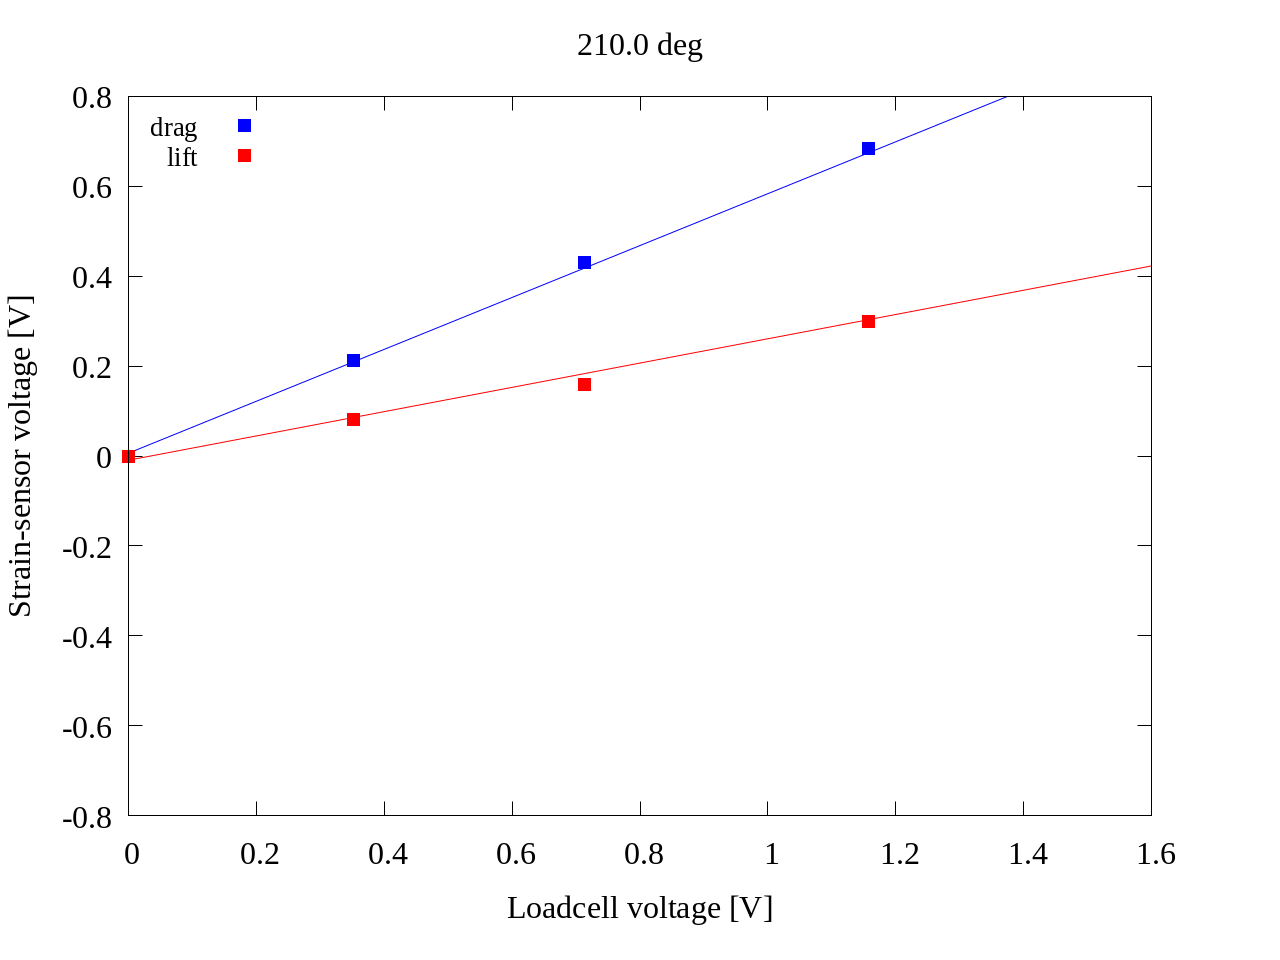
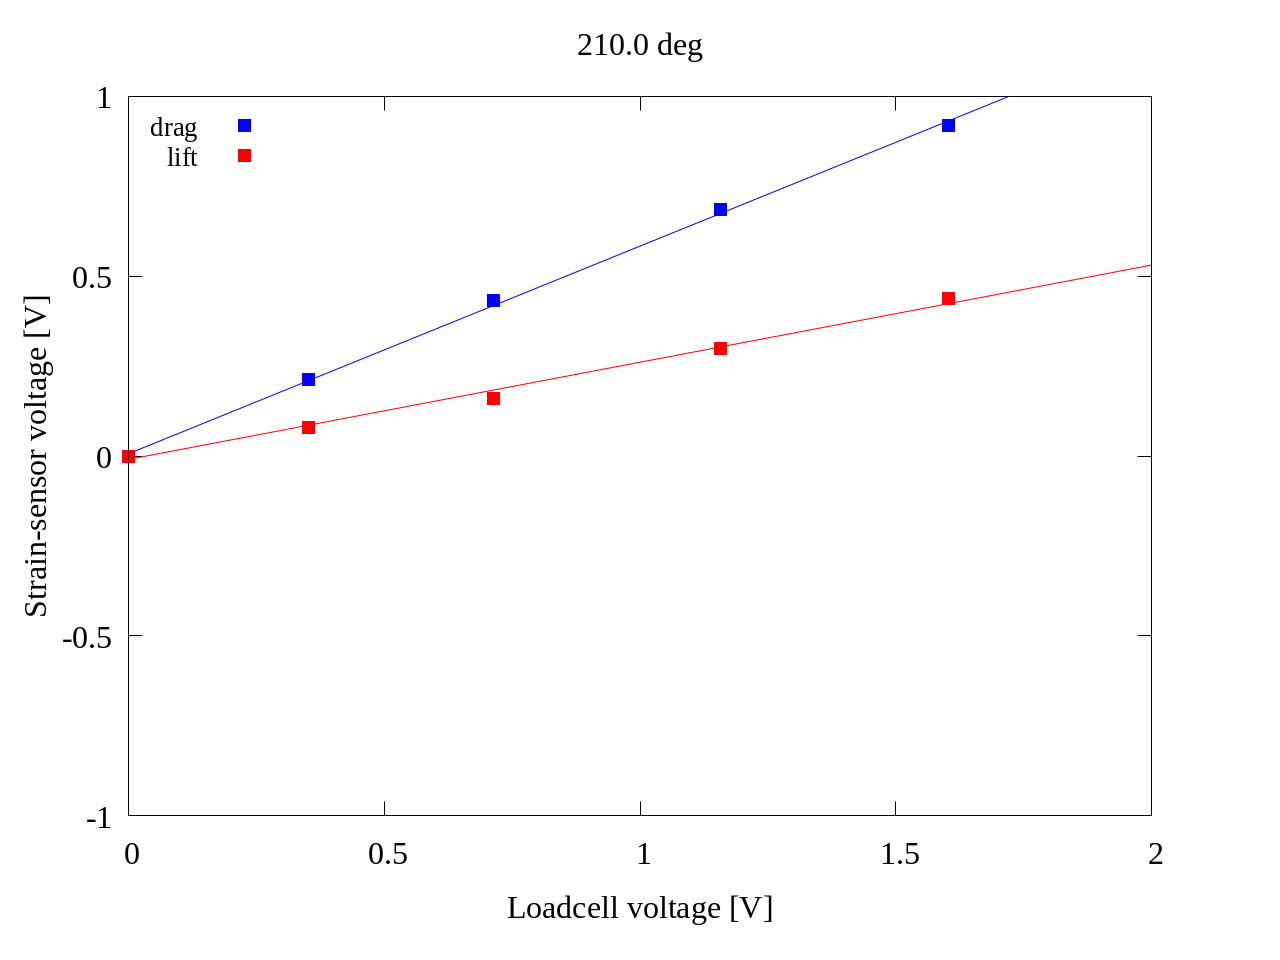
programs

diff --git a/02_workspace/programs/27-1_wave_fft_drag.c b/02_workspace/programs/27-1_wave_fft_drag.c
@@ -206,7 +206,7 @@ int calculate_drag_theory(char date[], int range)
     fprintf(gp, "set xrange [%.3f:%d]\n", x_min, x_max);
     fprintf(gp, "set xlabel '%s'offset 0.0,0\n", xxlabel);
     fprintf(gp, "set yrange [%.3f:%.3f]\n", y_min, y_max);
-    fprintf(gp, "set ylabel '%s'offset 0,0.0\n", yylabel);
+    fprintf(gp, "set ylabel '%s'offset 1,0.0\n", yylabel);
     fprintf(gp, "set title '%s (drag)'\n", label);
 
     // fprintf(gp, "set samples 10000\n");
@@ -230,7 +230,7 @@ int calculate_drag_theory(char date[], int range)
     fprintf(gp, "set xrange [%.3f:%d]\n", x_min, x_max);
     fprintf(gp, "set xlabel '%s'offset 0.0,0\n", xxlabel);
     fprintf(gp, "set yrange [%.3f:%.3f]\n", y_min, y_max);
-    fprintf(gp, "set ylabel '%s'offset 0,0.0\n", yylabel);
+    fprintf(gp, "set ylabel '%s'offset 1,0.0\n", yylabel);
     fprintf(gp, "set title '%s (Drag)'\n", label);
 
     // fprintf(gp, "set samples 10000\n");

diff --git a/02_workspace/programs/27-2_wave_fft_lift.c b/02_workspace/programs/27-2_wave_fft_lift.c
@@ -197,7 +197,7 @@ int calculate_lift_theory(char date[], int range)
     fprintf(gp, "set xrange [%.3f:%d]\n", x_min, x_max);
     fprintf(gp, "set xlabel '%s'offset 0.0,0\n", xxlabel);
     fprintf(gp, "set yrange [%.3f:%.3f]\n", y_min, y_max);
-    fprintf(gp, "set ylabel '%s'offset 0,0.0\n", yylabel);
+    fprintf(gp, "set ylabel '%s'offset 1,0.0\n", yylabel);
     fprintf(gp, "set title '%s (lift)'\n", label);
 
     // fprintf(gp, "set samples 10000\n");
@@ -221,7 +221,7 @@ int calculate_lift_theory(char date[], int range)
     fprintf(gp, "set xrange [%.3f:%d]\n", x_min, x_max);
     fprintf(gp, "set xlabel '%s'offset 0.0,0\n", xxlabel);
     fprintf(gp, "set yrange [%.3f:%.3f]\n", y_min, y_max);
-    fprintf(gp, "set ylabel '%s'offset 0,0.0\n", yylabel);
+    fprintf(gp, "set ylabel '%s'offset 1,0.0\n", yylabel);
     fprintf(gp, "set title '%s (Lift)'\n", label);
 
     // fprintf(gp, "set samples 10000\n");

diff --git a/02_workspace/programs/27-3_wave_dft_drag.c b/02_workspace/programs/27-3_wave_dft_drag.c
@@ -206,7 +206,7 @@ int calculate_drag_theory(char date[], int range)
     fprintf(gp, "set xrange [%.3f:%d]\n", x_min, x_max);
     fprintf(gp, "set xlabel '%s'offset 0.0,0\n", xxlabel);
     fprintf(gp, "set yrange [%.3f:%.3f]\n", y_min, y_max);
-    fprintf(gp, "set ylabel '%s'offset 0,0.0\n", yylabel);
+    fprintf(gp, "set ylabel '%s'offset 1,0.0\n", yylabel);
     fprintf(gp, "set title '%s (drag)'\n", label);
 
     // fprintf(gp, "set samples 10000\n");
@@ -230,7 +230,7 @@ int calculate_drag_theory(char date[], int range)
     fprintf(gp, "set xrange [%.3f:%d]\n", x_min, x_max);
     fprintf(gp, "set xlabel '%s'offset 0.0,0\n", xxlabel);
     fprintf(gp, "set yrange [%.3f:%.3f]\n", y_min, y_max);
-    fprintf(gp, "set ylabel '%s'offset 0,0.0\n", yylabel);
+    fprintf(gp, "set ylabel '%s'offset 1,0.0\n", yylabel);
     fprintf(gp, "set title '%s (Drag)'\n", label);
 
     // fprintf(gp, "set samples 10000\n");

diff --git a/02_workspace/programs/27-4_wave_dft_lift.c b/02_workspace/programs/27-4_wave_dft_lift.c
@@ -197,7 +197,7 @@ int calculate_lift_theory(char date[], int range)
     fprintf(gp, "set xrange [%.3f:%d]\n", x_min, x_max);
     fprintf(gp, "set xlabel '%s'offset 0.0,0\n", xxlabel);
     fprintf(gp, "set yrange [%.3f:%.3f]\n", y_min, y_max);
-    fprintf(gp, "set ylabel '%s'offset 0,0.0\n", yylabel);
+    fprintf(gp, "set ylabel '%s'offset 1,0.0\n", yylabel);
     fprintf(gp, "set title '%s (lift)'\n", label);
 
     // fprintf(gp, "set samples 10000\n");
@@ -221,7 +221,7 @@ int calculate_lift_theory(char date[], int range)
     fprintf(gp, "set xrange [%.3f:%d]\n", x_min, x_max);
     fprintf(gp, "set xlabel '%s'offset 0.0,0\n", xxlabel);
     fprintf(gp, "set yrange [%.3f:%.3f]\n", y_min, y_max);
-    fprintf(gp, "set ylabel '%s'offset 0,0.0\n", yylabel);
+    fprintf(gp, "set ylabel '%s'offset 1,0.0\n", yylabel);
     fprintf(gp, "set title '%s (Lift)'\n", label);
 
     // fprintf(gp, "set samples 10000\n");

diff --git a/02_workspace/programs/04_linear.c b/02_workspace/programs/04_linear.c
@@ -199,11 +199,11 @@ int linear(char date[], char angle[])
 
     // range x
     double x_min = 0;
-    double x_max = 1.6;
+    double x_max = 2;
 
     // range y
-    double y_min = -0.8;
-    double y_max = 0.8;
+    double y_min = -1;
+    double y_max = 1;
 
     // label
     const char *xxlabel = "Loadcell voltage [V]";
@@ -246,7 +246,7 @@ int linear(char date[], char angle[])
     fprintf(gp, "set xrange [%.3f:%.3f]\n", x_min, x_max);
     fprintf(gp, "set xlabel '%s'offset 0.0,0\n", xxlabel);
     fprintf(gp, "set yrange [%.3f:%.3f]\n", y_min, y_max);
-    fprintf(gp, "set ylabel '%s'offset 0,0.0\n", yylabel);
+    fprintf(gp, "set ylabel '%s'offset 1,0.0\n", yylabel);
     fprintf(gp, "set title '%s deg'\n", label);
 
     // fprintf(gp, "set samples 10000\n");

diff --git a/02_workspace/programs/07-1_fft_drag.c b/02_workspace/programs/07-1_fft_drag.c
@@ -178,7 +178,7 @@ int calculate_drag(char date[], int range)
     fprintf(gp, "set xrange [%.3f:%d]\n", x_min, x_max);
     fprintf(gp, "set xlabel '%s'offset 0.0,0\n", xxlabel);
     fprintf(gp, "set yrange [%.3f:%.3f]\n", y_min, y_max);
-    fprintf(gp, "set ylabel '%s'offset 0,0.0\n", yylabel);
+    fprintf(gp, "set ylabel '%s'offset 1,0.0\n", yylabel);
     fprintf(gp, "set title '%s (drag)'\n", label);
 
     // fprintf(gp, "set samples 10000\n");

diff --git a/02_workspace/programs/07-2_fft_lift.c b/02_workspace/programs/07-2_fft_lift.c
@@ -177,7 +177,7 @@ int calculate_lift(char date[], int range)
     fprintf(gp, "set xrange [%.3f:%d]\n", x_min, x_max);
     fprintf(gp, "set xlabel '%s'offset 0.0,0\n", xxlabel);
     fprintf(gp, "set yrange [%.3f:%.3f]\n", y_min, y_max);
-    fprintf(gp, "set ylabel '%s'offset 0,0.0\n", yylabel);
+    fprintf(gp, "set ylabel '%s'offset 1,0.0\n", yylabel);
     fprintf(gp, "set title '%s (lift)'\n", label);
 
     // fprintf(gp, "set samples 10000\n");

diff --git a/02_workspace/programs/07-3_dft_drag.c b/02_workspace/programs/07-3_dft_drag.c
@@ -178,7 +178,7 @@ int calculate_drag(char date[], int range)
     fprintf(gp, "set xrange [%.3f:%d]\n", x_min, x_max);
     fprintf(gp, "set xlabel '%s'offset 0.0,0\n", xxlabel);
     fprintf(gp, "set yrange [%.3f:%.3f]\n", y_min, y_max);
-    fprintf(gp, "set ylabel '%s'offset 0,0.0\n", yylabel);
+    fprintf(gp, "set ylabel '%s'offset 1,0.0\n", yylabel);
     fprintf(gp, "set title '%s (drag)'\n", label);
 
     // fprintf(gp, "set samples 10000\n");

diff --git a/02_workspace/programs/07-4_dft_lift.c b/02_workspace/programs/07-4_dft_lift.c
@@ -177,7 +177,7 @@ int calculate_lift(char date[], int range)
     fprintf(gp, "set xrange [%.3f:%d]\n", x_min, x_max);
     fprintf(gp, "set xlabel '%s'offset 0.0,0\n", xxlabel);
     fprintf(gp, "set yrange [%.3f:%.3f]\n", y_min, y_max);
-    fprintf(gp, "set ylabel '%s'offset 0,0.0\n", yylabel);
+    fprintf(gp, "set ylabel '%s'offset 1,0.0\n", yylabel);
     fprintf(gp, "set title '%s (lift)'\n", label);
 
     // fprintf(gp, "set samples 10000\n");
